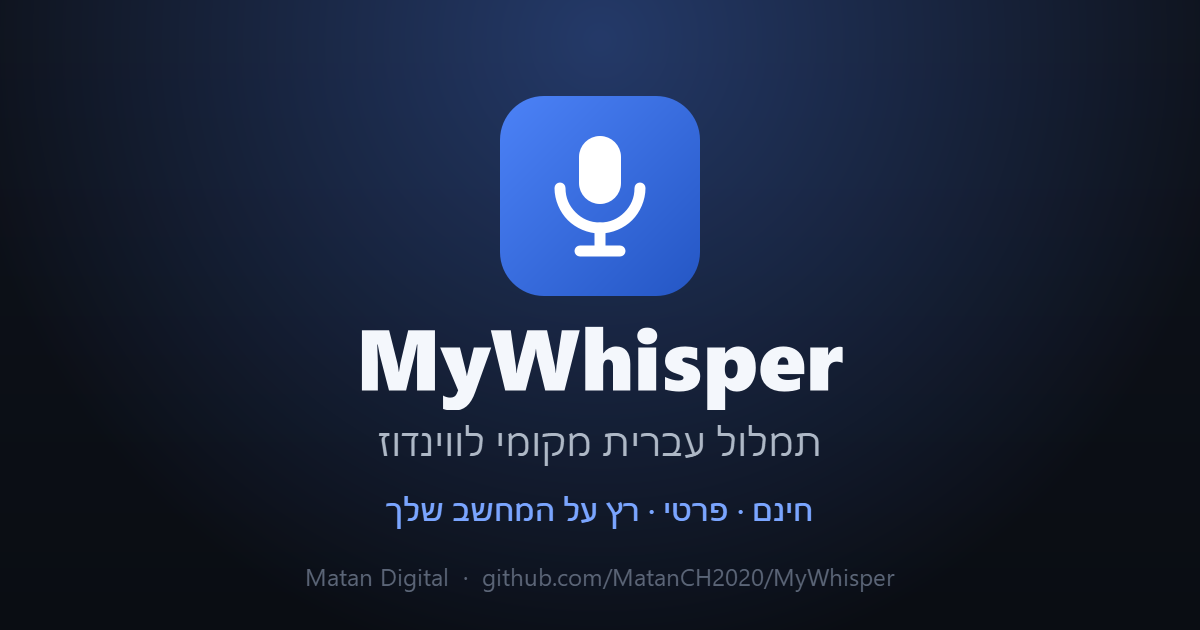
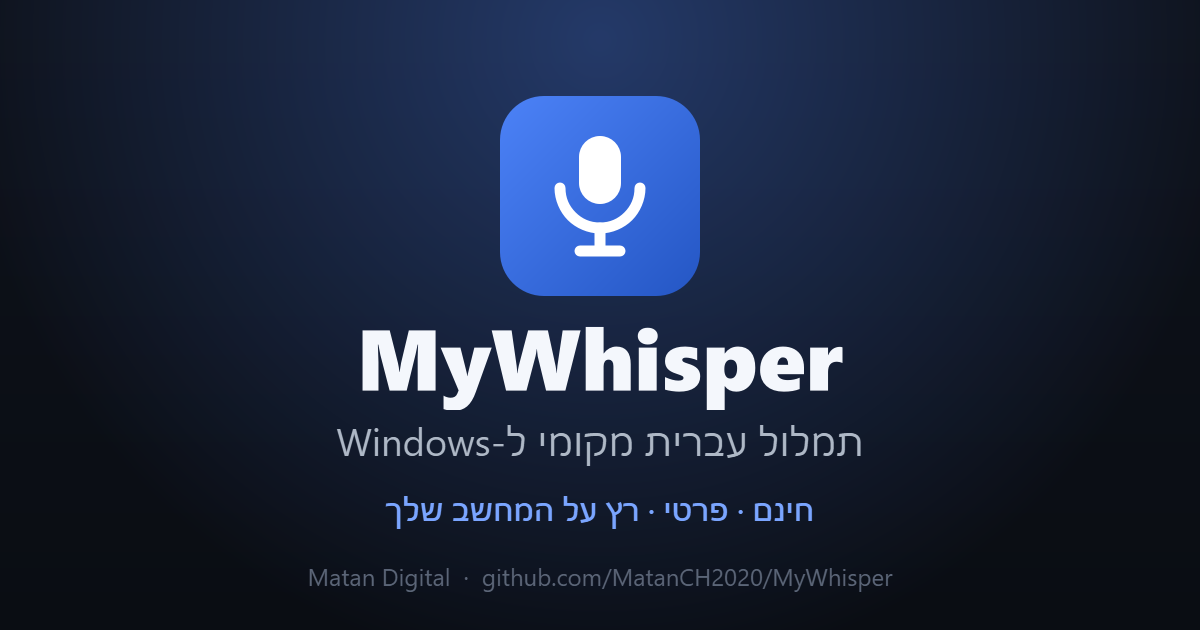
style: update terminology in social preview image

diff --git a/app/make_og.py b/app/make_og.py
@@ -55,7 +55,7 @@ def main():
     p.setPen(QColor("#aeb8c6"))
     p.setFont(_font(38, QFont.Medium))
     p.drawText(QRectF(0, 412, W, 56), Qt.AlignHCenter | Qt.AlignVCenter,
-               "תמלול עברית מקומי לווינדוז")
+               "תמלול עברית מקומי ל-Windows")
 
     # accent sub-line
     p.setPen(QColor("#7aa5ff"))